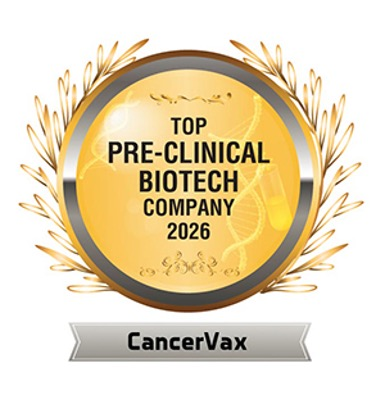
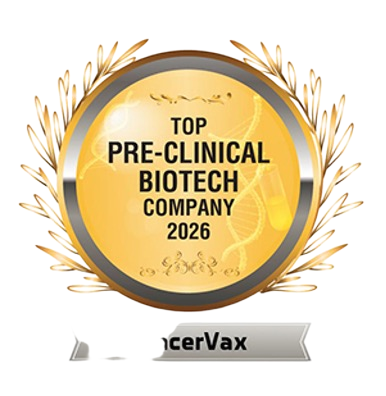
Badge: remove white bg, align vertically with The CancerVax Way text

diff --git a/assets/css/style.css b/assets/css/style.css
@@ -1423,12 +1423,12 @@ a:hover{
   width: 110px;
 }
 
-.w-\[133px\]{
-  width: 133px;
+.w-\[130px\]{
+  width: 130px;
 }
 
-.w-\[180px\]{
-  width: 180px;
+.w-\[133px\]{
+  width: 133px;
 }
 
 .w-\[200px\]{
@@ -1642,6 +1642,10 @@ a:hover{
 
 .flex-1{
   flex: 1 1 0%;
+}
+
+.flex-shrink-0{
+  flex-shrink: 0;
 }
 
 .shrink-0{
@@ -4382,8 +4386,8 @@ html {
     width: 25%;
   }
 
-  .xl\:w-\[210px\]{
-    width: 210px;
+  .xl\:w-\[150px\]{
+    width: 150px;
   }
 
   .xl\:w-\[224px\]{

diff --git a/pages/home.php b/pages/home.php
@@ -31,14 +31,13 @@ $news = include __DIR__ . '/../data/news-data.php'; ?>
                 <h1 style="color: #295d6e" class="text-[33px] sm:text-[50px] xl:text-[64px] font-medium">A Revolutionary Way to Treat Cancer</h1>
             </div>
             <div class="pt-[50px] xl:pt-4 max-w-[530px] xl:max-w-[615px]">
-                <!-- Desktop badge: centered above The CancerVax Way -->
-                <div class="hidden md:flex justify-center mb-6">
+                <!-- Desktop badge + "The CancerVax Way" side by side, vertically centered -->
+                <div class="hidden md:flex items-center gap-4 mb-4">
                     <img src="./assets/images/cancervax-top-preclinical-biotech-2026.png"
                          alt="Top Pre-Clinical Biotech Company 2026"
-                         class="w-[180px] xl:w-[210px]">
+                         class="w-[130px] xl:w-[150px] flex-shrink-0">
+                    <p class="mt-0 text-black text-2xl xl:text-[32px] font-medium">The CancerVax Way</p>
                 </div>
-                <p class="hidden md:block mt-0 text-black text-2xl xl:text-[32px] font-medium mb-4">The CancerVax Way
-                </p>
                 <ul class="hidden md:block list-disc pl-[30px] max-w-[50%] lg:max-w-[81%] xl:max-w-[98%] space-y-2.5 [&>li]:text-black [&>li]:text-xl xl:[&>li]:text-2xl [&>li]:leading-tight">
                     <li>10 million people died last year because the body does not easily recognize and kill cancer cells.</li>
                     <li>However, the body is very good at killing diseases that it recognizes, such as measles.</li>
